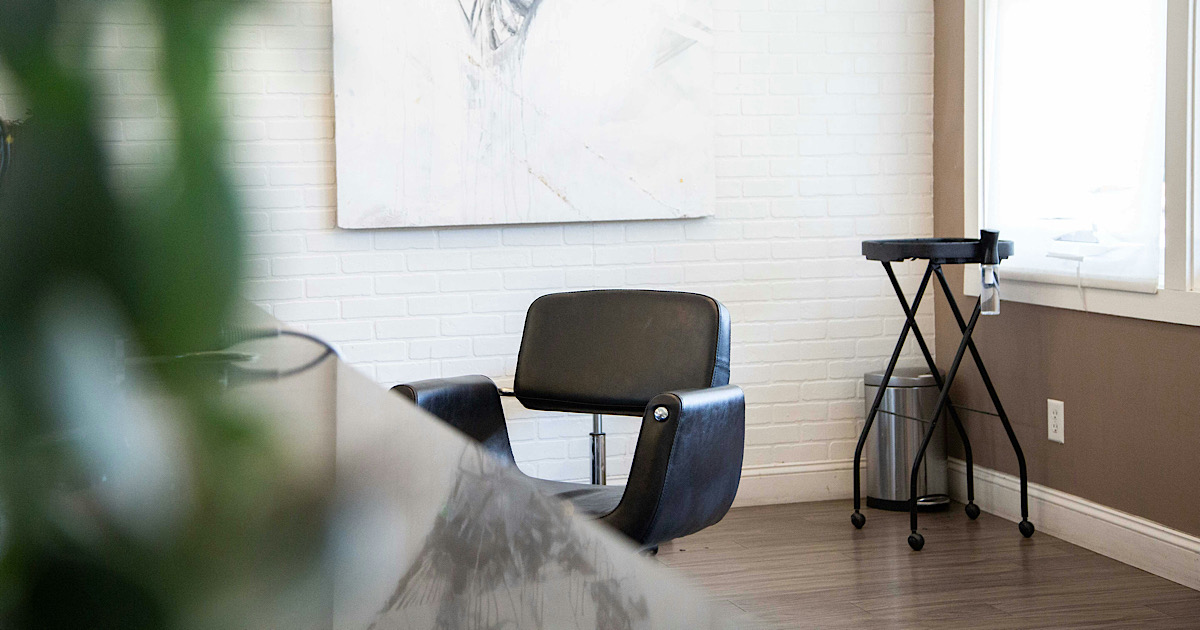
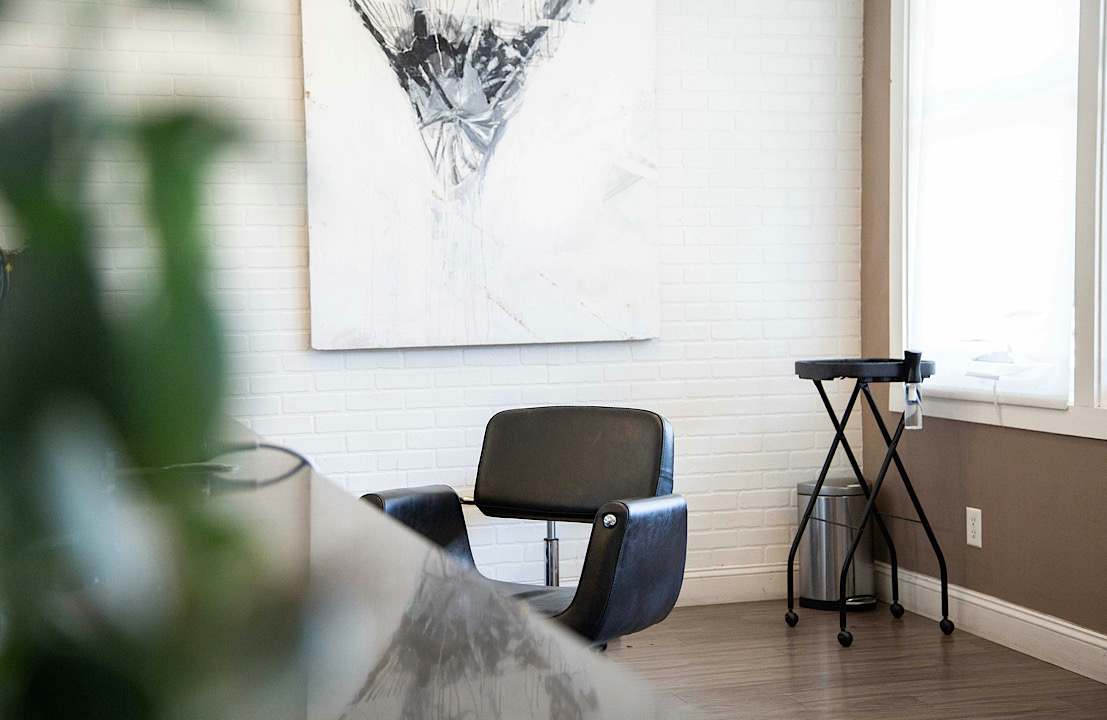
recorrect og meta tag img path

diff --git a/index.html b/index.html
@@ -7,7 +7,7 @@
     <meta property="og:title" content="soie. | 京都のヘアサロン">
     <meta property="og:type" content="website">
     <meta property="og:url" content="https://marina-hoshi.github.io/soie./">
-    <meta property="og:image" content="https://marina-hoshi.github.io/soie./assets/img/ogp2.JPG">
+    <meta property="og:image" content="https://marina-hoshi.github.io/soie./assets/img/ogp.JPG">
     <meta property="og:site_name" content="soie. | 京都のヘアサロン">
     <meta property="og:description" content="soie. は栄伝駅から徒歩2分、閑静な路地に佇むヘアサロンです。トレンドを取り入れて、あなたの理想を叶えるヘアスタイルを実現します。">
     <meta property="og:locale" content="ja_JP">
